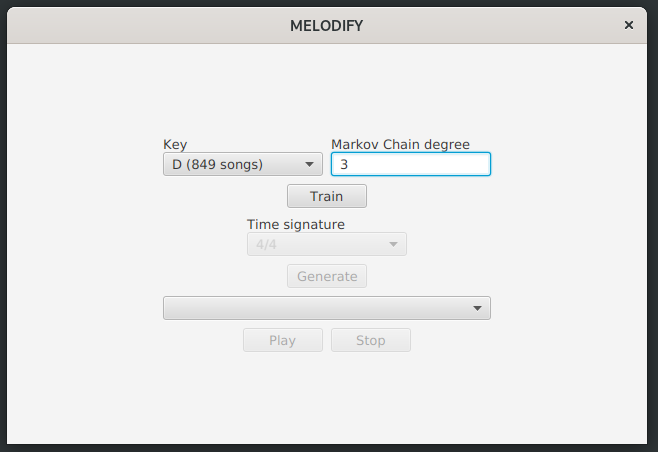
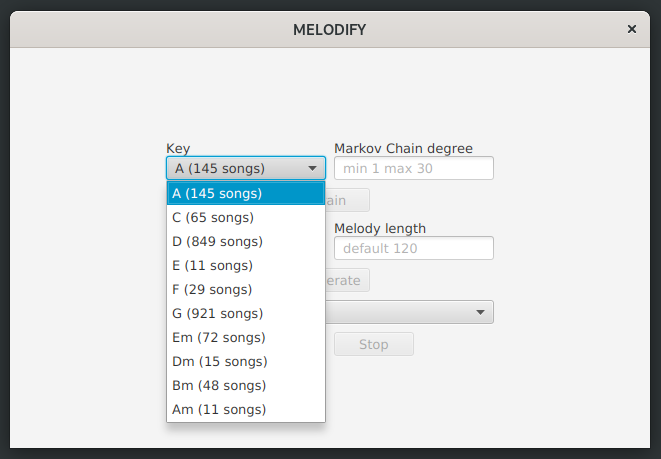
update docs

Changed region(s): [[0.0, 0.0, 1.0, 0.9912], [0.2432, 0.3097, 0.7599, 0.5885], [0.5471, 0.7434, 0.6079, 0.7743]]

diff --git a/README.md b/README.md
@@ -67,11 +67,11 @@ data/
 
 ### Usage
 
-After starting the application the training data is loaded and user can select a key and the degree of the Markov's Chain (min 1 max 6) to use for training the model. Current training data package contains a set of Irish jigs in D and this should come across the generated melodies at least a little bit.
+After starting the application the training data is loaded and user can select a key and the degree of the Markov's Chain to use for training the model. Lower degrees (two to six-ish) allow for more adventuring and tend to produce more interesting melodies. In practice, the higher the degree the closer it should be to training data and more likely it will find a sequence that has no following notes (learned from an ending of a song) if the generation is long enough. Current training data package contains mostly Irish folk songs in different keys. This might come across the generated melodies.
 
 ![training](/docs/images/howto_train.png)
 
-After setting the parameters and training the model the generate button becomes enabled. Time signature selection is a small curiosity here for playback as it adds a rhythm and controls whether the generation is quarter or eighth notes. Generated melodies will be written to file for playback in the app and also saved in MIDI format.
+After setting the parameters and training the model the generate button becomes enabled. Note duration controls whether the generation is quarter, eighth or sixteenth notes. The generation needs to be seeded with an initial sequence that is the length of the selected Markov Chain degree (three in the example here). The application generates this automatically starting from the base note of the key and then picking the most common next note until the initial sequence is created after which every next note follows the probability distribution. Generated melodies will be written to the `data/output` folder for playback in the app and also saved in MIDI format.
 
 ![generating](/docs/images/howto_generate.png)
 
@@ -79,8 +79,8 @@ Generation should be more or less instantaneous and the file should become visib
 
 ![playback](/docs/images/howto_playback.png)
 
-Playback happens on another thread so as to not block the UI and therefore also prevent pressing the stop button. Other controls are disabled during playback. Full generated melody is 120 notes long as an arbitrary hardcoded limit for now. It's possible that the generation is shorter if it found a sequence with no following notes.
+Playback happens on another thread so as to not block the UI and therefore also prevent pressing the stop button. Other controls are disabled during playback. It's possible that the generation is shorter if it found a sequence with no following notes.
 
-NOTE: when starting the playback it is often not perfectly in sync right in the beginning but evens out quite quick to a stable rhythm (something to fix later perhaps).
+NOTE: Listening the generation from `data/output` with an external player that handles MIDI is slightly more smooth. The playback in the app it is often not perfectly in sync right in the beginning but evens out quite quick to a stable rhythm.
 
 ![stop](/docs/images/howto_stop.png)
